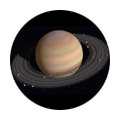
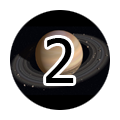
change render texture

Changed region(s): [[0.35, 0.275, 0.65, 0.725]]

diff --git a/worldrenderer.py b/worldrenderer.py
@@ -12,18 +12,18 @@ class WorldRenderer:
     def draw(self):
         if self.world.max <= 1024:
             self.background[0].draw()
-        if self.world.max <= 2048:
+        elif self.world.max <= 2048:
             self.background[1].draw()
-        if self.world.max <= 4096:
+        elif self.world.max <= 4096:
             self.background[2].draw()
-        if self.world.max > 4096:
+        elif self.world.max > 4096:
             self.background[3].draw()
 
         for i in range(len(self.world.star)):
             for j in range(len(self.world.star[i])):
                 if self.world.star[i][j] != 0 :
                     arcade.draw_texture_rectangle(self.world.star[i][j].x, self.world.star[i][j].y, self.star_texture[self.world.star[i][j].value].width, self.star_texture[self.world.star[i][j].value].height, self.star_texture[self.world.star[i][j].value], 0)
-                    arcade.draw_text(str(self.world.star[i][j].value), self.world.star[i][j].x, self.world.star[i][j].y, arcade.color.BLACK, font_size=40, bold=True, align="center", anchor_x="center", anchor_y="center")
+                    #arcade.draw_text(str(self.world.star[i][j].value), self.world.star[i][j].x, self.world.star[i][j].y, arcade.color.BLACK, font_size=40, bold=True, align="center", anchor_x="center", anchor_y="center")
 
     def set_asset(self):
         self.background = []
@@ -33,7 +33,7 @@ class WorldRenderer:
             self.background[i].set_position(400, 300)
 
         self.star_texture = {}
-        for i in range(12):
+        for i in range(17):
             self.star_texture[2**(i+1)] = arcade.load_texture('asset/s'+(str)(i+1)+'.png')
-        for i in range(12,17):    
-            self.star_texture[2**(i+1)] = arcade.load_texture('asset/s12.png')
+        #for i in range(12,17):    
+        #    self.star_texture[2**(i+1)] = arcade.load_texture('asset/s12.png')

diff --git a/world.py b/world.py
@@ -8,10 +8,13 @@ class World:
         self.height = height
         self.n = 4
         self.state = 0
+        self.star = []
+        self.blank_cell = []
+        self.all_star = []
         self.new_game()
 
     def new_game(self):
-        self.star = []
+        self.star.clear()
         for i in range(self.n):
             self.star.append([])
             for j in range(self.n):
@@ -164,7 +167,7 @@ class World:
                         
 
     def check_blank_cell(self):
-        self.blank_cell = []
+        self.blank_cell.clear()
         for i in range(self.n):
             for j in range(self.n):
                 if self.star[i][j] == 0:
@@ -228,7 +231,7 @@ class World:
             for j in range(self.n):
                 if self.star[i][j] != 0:
                     self.merge_cell(i, j)
-        self.all_star = []
+        self.all_star.clear()
         for i in range(self.n):
             for j in range(self.n):
                 if self.star[i][j] != 0:
